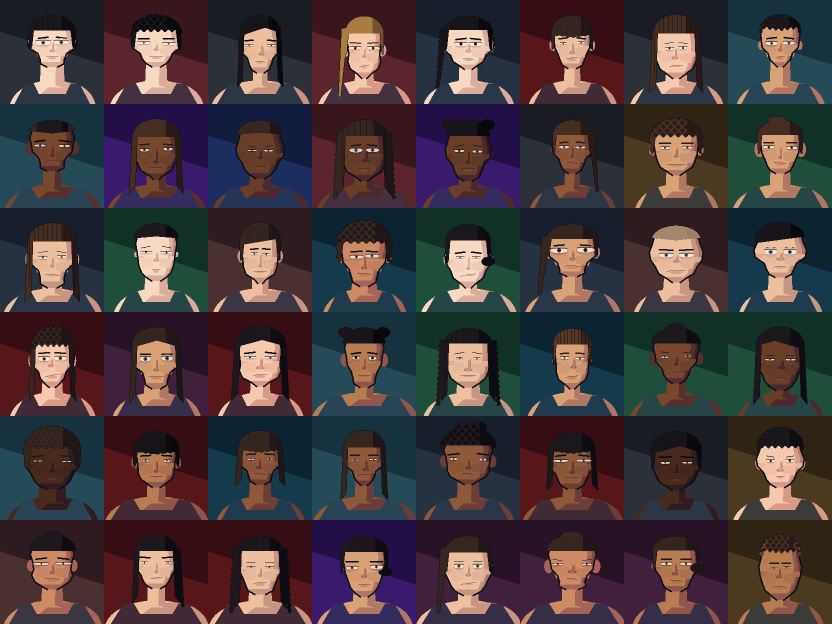
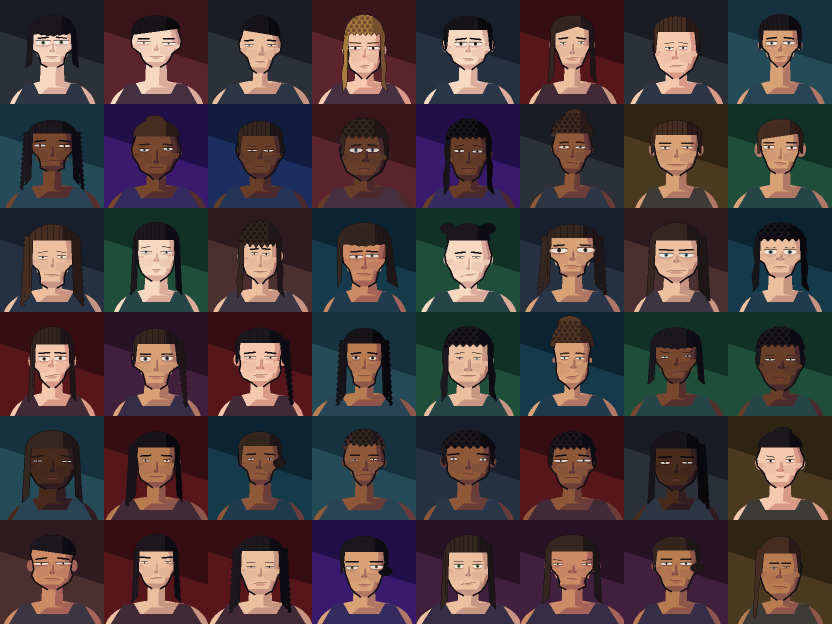
Give women a dedicated portrait hair catalogue and prohibit facial hair

diff --git a/fighter_portrait_regression_test.py b/fighter_portrait_regression_test.py
@@ -14,7 +14,7 @@ from fighter_portraits.regions import GENDER_HAIR_STYLE_WEIGHTS, REGION_APPEARAN
 from fighter_portraits.styles import (
     BACKGROUND, BROW_STYLES, CHEEK_SHAPES, CHIN_SHAPES, EAR_SHAPES, EYE_SHAPES,
     EYE_SIZES, EYE_SPACINGS, FACIAL_HAIR, FACE_LENGTHS, HAIR, HAIR_STYLES,
-    IDENTITY_TRAITS, JAW_SHAPES, MOUTH_SHAPES, NOSE_SHAPES, SKIN,
+    IDENTITY_TRAITS, JAW_SHAPES, MOUTH_SHAPES, NOSE_SHAPES, SKIN, FEMALE_HAIR_STYLES,
 )
 from fighter_portraits.overrides import (
     PORTRAIT_ICON_OVERRIDES, PORTRAIT_OVERRIDES, PORTRAIT_PARTIAL_OVERRIDES,
@@ -63,13 +63,35 @@ class PortraitIdentityRegressionTests(unittest.TestCase):
 
     def test_gender_aware_hair_distribution_is_broad_and_deterministic(self):
         self.assertTrue(all(len(weights) == len(HAIR_STYLES) for weights in GENDER_HAIR_STYLE_WEIGHTS.values()))
-        self.assertTrue(all(weight > 0 for weights in GENDER_HAIR_STYLE_WEIGHTS.values() for weight in weights))
+        self.assertTrue(all(weight > 0 for weight in GENDER_HAIR_STYLE_WEIGHTS["Male"]))
+        self.assertEqual(set(FEMALE_HAIR_STYLES), {style for style, weight in
+                         enumerate(GENDER_HAIR_STYLE_WEIGHTS["Female"]) if weight > 0})
         male = [derived_portrait_identity(fighter(f"FTR-gender-{index}", gender="Male"))["hair_style"] for index in range(5000)]
         female = [derived_portrait_identity(fighter(f"FTR-gender-{index}", gender="Female"))["hair_style"] for index in range(5000)]
         self.assertEqual(set(range(len(HAIR_STYLES))), set(male))
-        self.assertEqual(set(range(len(HAIR_STYLES))), set(female))
+        self.assertEqual(set(FEMALE_HAIR_STYLES), set(female))
         self.assertGreater(sum(value in (21, 24, 33, 35, 37, 43, 44) for value in female),
                            sum(value in (21, 24, 33, 35, 37, 43, 44) for value in male))
+
+    def test_womens_catalogue_and_no_beards_apply_after_saves_and_overrides(self):
+        from unittest.mock import patch
+        for style in range(len(HAIR_STYLES)):
+            row = fighter(gender="Female", portrait_identity={"hair_style": style, "skin": 6,
+                          "facial_hair": 15, "jaw": 8})
+            saved = copy.deepcopy(row.__dict__)
+            vector = portrait_identity(row)
+            self.assertIn(vector["hair_style"], FEMALE_HAIR_STYLES)
+            if style in FEMALE_HAIR_STYLES:
+                self.assertEqual(style, vector["hair_style"])
+            self.assertEqual((0, 6, 8), (vector["facial_hair"], vector["skin"], vector["jaw"]))
+            self.assertEqual(saved, row.__dict__)
+        # Specific real-fighter hair exceptions remain possible, never beards.
+        row = fighter(gender="Female")
+        for beard in range(len(FACIAL_HAIR)):
+            with patch.dict(PORTRAIT_OVERRIDES, {row.name: {"hair_style": 0, "facial_hair": beard}}):
+                vector = portrait_identity(row)
+                self.assertEqual(0, vector["hair_style"])
+                self.assertEqual(0, vector["facial_hair"])
 
     def test_identity_does_not_touch_game_values(self):
         import random
@@ -328,7 +350,7 @@ assert len(rasterize_portrait(row,72).pixels) == 72*72
         rows = json.loads(source.read_text(encoding="utf-8"))["sections"]["fighters"]["all_fighters"]
         manifest = [(row["fighter_id"], portrait_identity(SimpleNamespace(**row))) for row in rows]
         digest = hashlib.sha256(json.dumps(manifest, sort_keys=True, separators=(",", ":")).encode("utf-8")).hexdigest()
[2 lines of base64/hex data omitted]
 
     def test_save_round_trip_preserves_identity(self):
         from models import Fighter

diff --git a/analysis/portraits/review_portrait_diversity.py b/analysis/portraits/review_portrait_diversity.py
@@ -16,7 +16,7 @@ ROOT = Path(__file__).resolve().parents[2]
 sys.path.insert(0, str(ROOT))
 from fighter_portraits.identity import portrait_identity
 from fighter_portraits.render import rasterize_portrait
-from fighter_portraits.styles import HAIR_STYLES
+from fighter_portraits.styles import HAIR_STYLES, FEMALE_HAIR_STYLES
 from analysis.portraits.generate_portrait_contact_sheet import png_bytes
 
 
@@ -50,9 +50,13 @@ def main():
         sheet(rows,out/f"{gender.lower()}_countries.png")
         manifest[gender] = [dict(name=r.name, id=r.fighter_id, country=r.birth_country,
                                  traits=portrait_identity(r)) for r in rows]
-    styles = [fighter("review-style", "UK", "Female", hair_style=i, hair_colour=1, skin=1,
+    styles = [fighter("review-style", "UK", "Male", hair_style=i, hair_colour=1, skin=1,
                       facial_hair=0, bg=0) for i in range(len(HAIR_STYLES))]
     sheet(styles,out/"hair_styles.png")
+    women_styles = [fighter("review-style", "UK", "Female", hair_style=i, hair_colour=1,
+                            skin=1, facial_hair=0, bg=0) for i in FEMALE_HAIR_STYLES]
+    sheet(women_styles,out/"women_hair_styles.png")
+    manifest["women_hair_styles"] = [{"id": i, "name": HAIR_STYLES[i][0]} for i in FEMALE_HAIR_STYLES]
     # Same age/country/skin/hair colour/background: test visible shape diversity
     # without counting a background recolour as a different face.
     shapes = [fighter(f"review-shape-{i}","UK","Male",skin=2,hair_colour=1,bg=0) for i in range(48)]

diff --git a/fighter_portraits/regions.py b/fighter_portraits/regions.py
@@ -6,6 +6,7 @@ which takes precedence over a simulation market region.
 """
 
 from constants import COUNTRY_NATIONALITIES, COUNTRY_TO_REGION
+from .styles import FEMALE_HAIR_STYLES
 
 
 # Hair is separately broad so no skin profile maps to a single hair colour.
@@ -19,9 +20,8 @@ HAIR_WEIGHTS = {
 
 # Silhouette is not a regional attribute.  These deliberately broad cosmetic
 # distributions make new generated portraits read more intentionally across
-# the game's recorded genders, while every shipped style remains possible for
-# every group.  Persisted vectors always win, so this only affects newly
-# generated identities.
+# the game's recorded genders. Women have an explicit catalogue; legacy men's
+# cuts are excluded from generation. The full ID registry stays save-compatible.
 GENDER_HAIR_STYLE_WEIGHTS = {
     "default": (1,) * 48,
     "Male": (
@@ -35,6 +35,10 @@ GENDER_HAIR_STYLE_WEIGHTS = {
         12, 18, 14, 22, 14, 26, 10, 16, 5, 5, 10, 22, 24, 10, 2, 7,
     ),
 }
+GENDER_HAIR_STYLE_WEIGHTS["Female"] = tuple(
+    weight if style in FEMALE_HAIR_STYLES else 0
+    for style, weight in enumerate(GENDER_HAIR_STYLE_WEIGHTS["Female"])
+)
 
 # Only resolution aliases; values retain the broad market distributions above.
 COUNTRY_ALIASES = {

diff --git a/fighter_portraits/identity.py b/fighter_portraits/identity.py
@@ -7,6 +7,7 @@ from .styles import (
     BACKGROUND, BROW_STYLES, CHEEK_SHAPES, CHIN_SHAPES, EAR_SHAPES, EYE_SHAPES,
     EYE_SIZES, EYE_SPACINGS, FACIAL_HAIR, FACE_LENGTHS, HAIR, HAIR_STYLES,
     IDENTITY_TRAITS, JAW_SHAPES, MOUTH_SHAPES, NOSE_SHAPES, SKIN, portrait_gender,
+    FEMALE_HAIR_STYLES,
 )
 
 CURRENT_PORTRAIT_VERSION = 2
@@ -69,9 +70,17 @@ def portrait_identity(fighter):
     # New keys can be added in future without disturbing any persisted trait:
     # derive only the missing independent draws, then let saved values win.
     identity = derived_portrait_identity(fighter)
+    generated_hair = identity["hair_style"]
     if isinstance(stored, dict) and stored:
         identity.update(stored)
-    identity.update(_overrides_for(fighter))
+    overrides = _overrides_for(fighter)
+    identity.update(overrides)
+    if portrait_gender(fighter) == "Female":
+        # Apply after saved values AND overrides. No female beard/moustache can
+        # leak into the effective identity or a renderer using this API.
+        identity["facial_hair"] = 0
+        if identity["hair_style"] not in FEMALE_HAIR_STYLES and "hair_style" not in overrides:
+            identity["hair_style"] = generated_hair
     return identity
 
 

diff --git a/fighter_portraits/styles.py b/fighter_portraits/styles.py
@@ -46,6 +46,14 @@ FACIAL_HAIR = (
     "heavy_beard", "long_beard", "mutton_chops", "beard_no_moustache", "braided_beard",
 )
 
+# Women's generation uses its own catalogue, not a nonzero chance of every
+# men's cut. Shared geometry keeps existing saved IDs stable. Explicit authored
+# hair overrides may represent a real fighter with an uncommon cut.
+FEMALE_HAIR_STYLES = (
+    13, 16, 17, 18, 20, 21, 22, 23, 24, 25, 26, 27,
+    32, 33, 34, 35, 36, 37, 38, 39, 40, 41, 42, 43, 44, 45, 47,
+)
+
 # base, form shadow, deep shadow.  The ramps deliberately describe only colour.
 SKIN = (
     ("#f7d8c0", "#dbac9c", "#be8b82"), ("#ecc09e", "#c99583", "#a87469"),

diff --git a/docs/FIGHTER_PORTRAIT_DIVERSITY_REVIEW.md b/docs/FIGHTER_PORTRAIT_DIVERSITY_REVIEW.md
@@ -8,7 +8,8 @@ It changes presentation only; it does not rebalance fights or edit fighter ratin
 
 - Gender-normalised rendering: women's jaw/chin, neck/shoulder proportions, brows,
   softer face planes and athletic singlet. Female portraits suppress facial hair
-  even when an older saved vector contains it. All hairstyles remain available.
+  even when an older saved vector contains it. Women now generate from their own
+  explicit 27-style catalogue, rather than having a chance of every men's cut.
 - 48 stable hairstyle IDs (16 appended): bobs, pixie/fringes, centre/curtain parts,
   twin braids, double/low buns, curly puff/taper, tied locs, braided ponytail, shag,
   and mullet. Rounded crowns, tapered side locks, curl outlines and separate tails
@@ -27,7 +28,8 @@ It changes presentation only; it does not rebalance fights or edit fighter ratin
 Colour weights are **art-direction priors, not measured demographic percentages**
 or a claim about any individual's appearance. Every profile remains multi-valued;
 mixed-population profiles remain broad. Geography does not select cultural props,
-facial geometry, skills, popularity or ability. Authored individual overrides win.
+facial geometry, skills, popularity or ability. Authored individual overrides win,
+except that female facial hair is always zero, including authored overrides.
 
 ## Save compatibility
 
@@ -36,6 +38,12 @@ removed or reordered. Missing new traits derive independently from fighter ID.
 Stored skin/hair/other choices are preserved, so revised generation weights apply
 to newly initialised identities, not an automatic restyling of existing saves.
 Gender-aware drawing and geometry improvements apply to old identities immediately.
+The subsequent women's-catalogue correction also projects an old generated men's
+cut into the women's pool at display time. It does not rewrite the stored vector
+or change its skin/face choices. Existing women's-pool styles stay unchanged;
+explicit authored hair exceptions (such as a specific real fighter's shaved head)
+remain valid. Beards, moustaches and stubble are prohibited in the effective female
+identity after both saved values and overrides are merged, as well as in rendering.
 The shipped database contains 1,534 fighters (231 women) and no prefilled portrait
 vectors, so a new game uses the revised generator for all of them, subject to
 authored overrides. Existing saves are not rewritten.
@@ -50,7 +58,9 @@ runtime assets:
 
 - `female_countries.png` and `male_countries.png`: eight synthetic fighters per
   row; UK, Nigeria, Japan, Brazil, India, Mexico, in that order.
-- `hair_styles.png`: the same woman with IDs 0–47, eight per row.
+- `hair_styles.png`: the same man with all IDs 0–47, eight per row.
+- `women_hair_styles.png`: the same woman with the 27 allowed generated styles;
+  order and stable IDs are listed in `manifest.json` under `women_hair_styles`.
 - `same_colours.png`: 48 men with fixed skin, hair colour, age and background, to
   expose actual shape differences rather than count background recolouring.
 - `manifest.json`: country-cohort identities, renderer source hashes, cold raster
@@ -65,14 +75,15 @@ Fine texture and iris differences are less prominent at thumbnail size.
 
 ## Verification
 
-`fighter_portrait_regression_test.py` has 31 passing tests, including:
+`fighter_portrait_regression_test.py` has 32 passing tests, including:
 
 - independent fighter-ID determinism, preserved old vectors and save round trips;
 - observed country draws matching the configured weights (4,000 IDs per cohort);
 - all 48 hair styles, 16 beard styles and 10 complexion options rendering distinctly
   with a fixed test face; 5,000 unique generated vectors and 128 distinct neutral-
   colour face crops;
-- normalised female presentation and suppression of a saved beard;
+- normalised female presentation, dedicated hairstyle-pool reachability and
+  prohibition of all beard/moustache styles after saved values and overrides;
 - import/render with site packages disabled and NumPy/Pillow explicitly blocked;
 - no fighter-data or global-RNG mutation from drawing; full-bout and terminal-RNG
   equality after restyling in both legacy and native-release harnesses;
@@ -91,3 +102,8 @@ also passed with the same skip. The complete `py -3 run_regression_suite.py` run
 0 with `ALL REQUESTED ISOLATED REGRESSION SUITES PASSED`, including both 3,840-bout
 baselines and the final stability playtest. No package/rebuild is performed by this
 portrait revision.
+
+The women's 27-style-catalogue follow-up was verified with a fresh complete isolated
+suite (exit 0), all 32 portrait tests and all nine profile tests. Both calibration
+checks passed again; the smoke display-layout skip remains unchanged. The women's
+style and shipped-fighter sheets were regenerated and visually reviewed.

diff --git a/AGENTS.md b/AGENTS.md
@@ -5,7 +5,11 @@
 Keep the 48 hairstyle IDs and existing palette/trait IDs append-only. Gender belongs
 in rendering and the cache key; older female vectors must not draw saved beards.
 Country tone weights are broad art-direction priors, not demographic measurements.
-Preserve saved vectors and authored overrides, merging partial corrections by field.
+Preserve raw saved vectors and merge authored corrections by field. Women's generated
+hair uses FEMALE_HAIR_STYLES (27 stable IDs): exclude men's cuts instead of merely
+giving them low weights. Project old non-catalogue cuts at display time; explicit
+authored hair exceptions remain valid. Force female facial_hair=0 AFTER merging
+saved values and overrides, and retain the renderer's independent no-beard guard.
 Run `fighter_portrait_regression_test.py` and regenerate/review the sheets with
 `analysis/portraits/review_portrait_diversity.py` after renderer changes. Do not count
 background recolours as distinct faces or claim pixel uniqueness proves likeness.

diff --git a/CHANGELOG.md b/CHANGELOG.md
@@ -1,10 +1,11 @@
 # Changelog
 
 Unreleased portrait update: improved women's face/body presentation; expanded hair
-silhouettes to 48 styles; separated all 16 facial-hair shapes; added nine independent
-appearance controls and country-refined skin-tone weights. Existing saved colours
-and hairstyles remain intact. Rendering stays dependency-free and cosmetic; review
-sheets and regression coverage are documented in
+silhouettes to 48 styles; separated all 16 men's facial-hair shapes; added nine
+appearance controls and country-refined skin-tone weights. Women now use a dedicated
+27-style generated hair catalogue; old generated men's cuts are corrected for display.
+Female beards, stubble and moustaches are prohibited after saves and overrides merge.
+Stored vectors remain intact; rendering is dependency-free and cosmetic. See
 [the portrait diversity review](docs/FIGHTER_PORTRAIT_DIVERSITY_REVIEW.md).
 
 ## Unreleased

diff --git a/README.md b/README.md
@@ -1,9 +1,10 @@
 # MMA Warriors
 
-Portrait diversity update (source; not a rebuilt package): women's portraits now use
-gender-aware face/body rendering. The generator offers 48 hairstyles, 16 distinct
-facial-hair options, broader facial variation and country-weighted skin tones.
-Saved appearance choices are preserved; new games use the revised distributions.
+Portrait diversity update (source; not a rebuilt package): women have gender-aware
+face/body rendering and their own 27-style generated hair catalogue, with no beards,
+stubble or moustaches. The full registry retains 48 hairstyles and 16 men's facial-
+hair styles. Women's old generated men's cuts are corrected for display without
+rewriting saved skin/face choices. Country-weighted colours remain broad.
 See [portrait review and compatibility notes](docs/FIGHTER_PORTRAIT_DIVERSITY_REVIEW.md).
 
 ## Version 3.0.9
